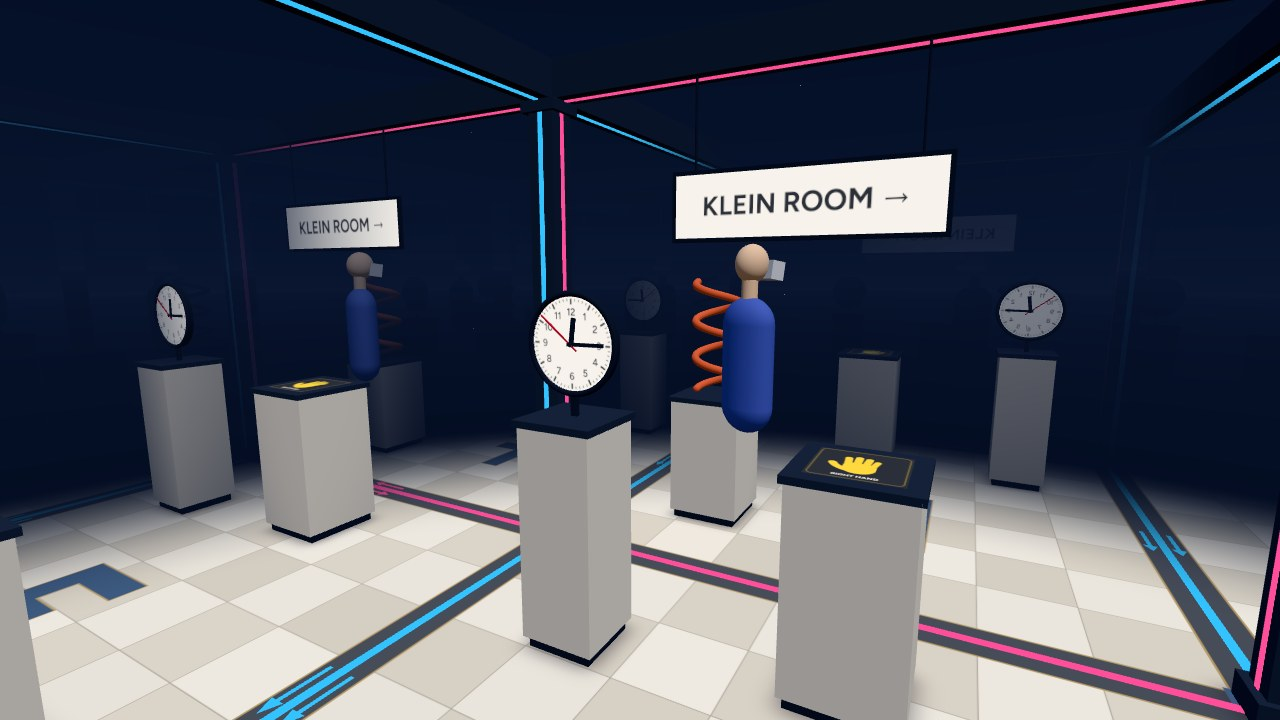
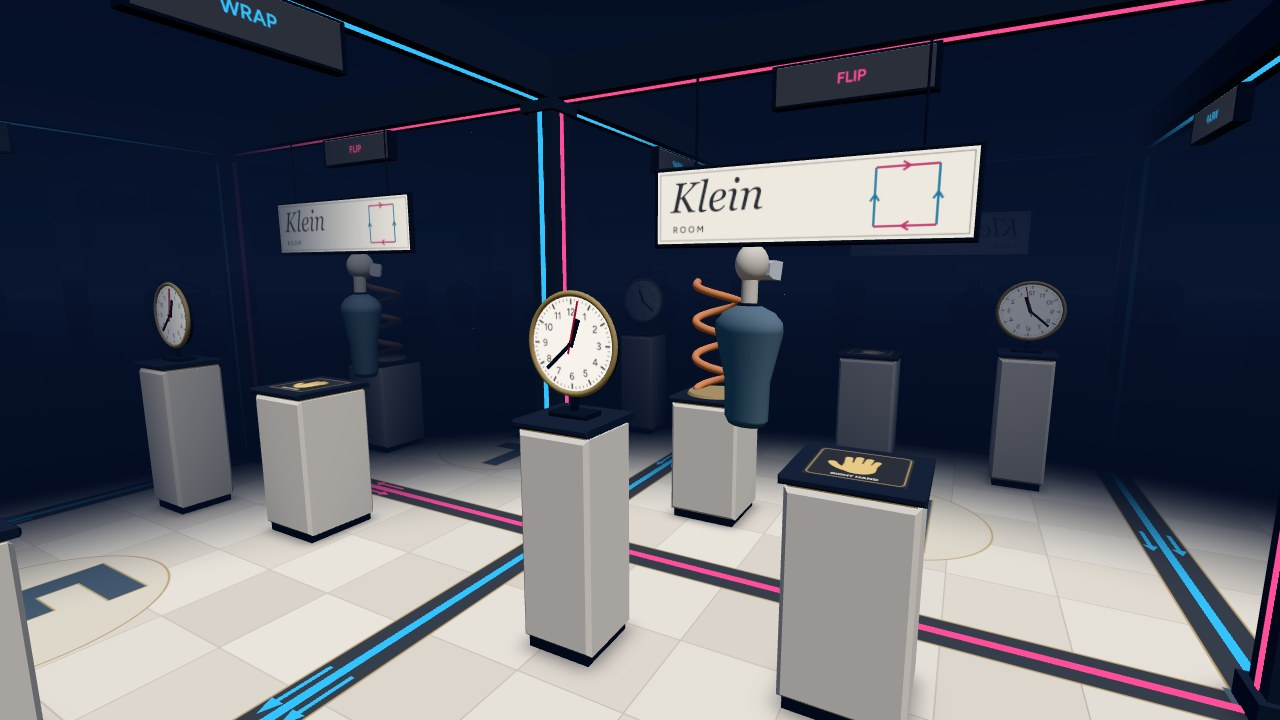
Klein room improvements

diff --git a/src/scenes/klein.js b/src/scenes/klein.js
@@ -13,6 +13,7 @@
 // is now mirror-reversed, and your left hand fits the right-hand print.
 
 import * as THREE from 'three';
+import { mergeGeometries } from 'three/addons/utils/BufferGeometryUtils.js';
 import { SceneBase } from './base.js';
 import { BONES } from '../core/handVisuals.js';
 import { J } from '../core/input.js';
@@ -104,6 +105,7 @@ function mergeColored(parts) {
     }
     if (geo.index) for (let i = 0; i < geo.index.count; i++) index.push(base + geo.index.getX(i));
     else for (let i = 0; i < gp.count; i++) index.push(base + i);
+    geo.dispose();
   }
   const g = new THREE.BufferGeometry();
   g.setAttribute('position', new THREE.Float32BufferAttribute(pos, 3));
@@ -118,6 +120,17 @@ const at = (x, y, z, rx = 0, ry = 0, rz = 0, sx = 1, sy = 1, sz = 1) => new THRE
 
 const CYAN = '#33c3ff', PINK = '#ff4f9a';
 const INK = '#2b2f3a', SLATE = '#3a3f4d', STONE = '#eee8de';
+const BRASS = '#bda477', COPPER = '#e79970';
+
+/** A single bevel catches the light without subdividing the flat faces. */
+function bevelBox(w, h, d, bevel = 0.012) {
+  const x = w / 2 - bevel, y = h / 2 - bevel;
+  const shape = new THREE.Shape().moveTo(-x, -y).lineTo(x, -y).lineTo(x, y).lineTo(-x, y).closePath();
+  return new THREE.ExtrudeGeometry(shape, {
+    depth: d - 2 * bevel, bevelEnabled: true, bevelSegments: 1,
+    steps: 1, bevelSize: bevel, bevelThickness: bevel, curveSegments: 1,
+  }).translate(0, 0, -d / 2 + bevel);
+}
 // the frame: a square pillar at each corner, and a lintel along the top of each wall
 const PILLAR = 0.16, LINTEL = 0.2, CAP = 0.22, CAP_H = 0.06, BASE_H = 0.1;
 const JAMB_TOP = H - LINTEL - CAP_H; // where the pillar's capital starts
@@ -127,6 +140,7 @@ const PLATE = { x: 0.2, z: -1.0, size: 0.44, top: 0.9 };
 const HELIX = { x: 0.9, z: 0.8, size: 0.44, top: 0.8 };
 const CLOCK_C = new THREE.Vector3(CLOCK.x, 1.3, CLOCK.z); // centre of the clock, inside its body
 const SIGN_POS = new THREE.Vector3(-0.2, 1.9, -D / 2 + 0.05); // facing +z, into the room
+const SIGN_W = 1.4, SIGN_H = 0.35, PORTAL_Y = H - LINTEL - 0.1;
 
 /**
  * Everything in the room that doesn't move and is lit, in room coordinates,
@@ -143,31 +157,38 @@ function roomGeometry() {
   add(box(CAP, CAP_H, CAP), SLATE, at(W / 2, JAMB_TOP + CAP_H / 2, D / 2));
   add(box(PILLAR, LINTEL, D), SLATE, at(W / 2, H - LINTEL / 2, 0));
   add(box(W, LINTEL, PILLAR), SLATE, at(0, H - LINTEL / 2, D / 2));
-  // gallery plinths: a dark recessed foot, and a top slab that overhangs a little
+  // Chamfered stone, a recessed foot and a thin brass reveal under each cap.
   for (const { x, z, size, top } of [CLOCK, PLATE, HELIX]) {
     add(box(size - 0.04, 0.05, size - 0.04), INK, at(x, 0.025, z));
-    add(box(size, top - 0.08, size), STONE, at(x, 0.05 + (top - 0.08) / 2, z));
-    add(box(size + 0.03, 0.03, size + 0.03), SLATE, at(x, top - 0.015, z));
+    add(bevelBox(size, top - 0.095, size, 0.018), STONE, at(x, 0.05 + (top - 0.095) / 2, z));
+    add(box(size - 0.025, 0.012, size - 0.025), BRASS, at(x, top - 0.038, z));
+    add(bevelBox(size + 0.03, 0.032, size + 0.03, 0.008), SLATE, at(x, top - 0.016, z));
   }
+  // The spiral is mounted on a shallow disc, rather than hovering over its plinth.
+  add(new THREE.CylinderGeometry(0.18, 0.19, 0.018, 32), BRASS, at(HELIX.x, HELIX.top + 0.009, HELIX.z));
   // a helix, which is chiral: this one twists to the right
   const helixPts = Array.from({ length: 60 }, (_, k) => {
     const t = k / 59, a = t * Math.PI * 6;
     return new THREE.Vector3(Math.cos(a) * 0.14, HELIX.top + 0.02 + t * 0.7, -Math.sin(a) * 0.14);
   });
-  add(new THREE.TubeGeometry(new THREE.CatmullRomCurve3(helixPts), 160, 0.025, 8, false), '#e76f51', at(HELIX.x, 0, HELIX.z));
+  add(new THREE.TubeGeometry(new THREE.CatmullRomCurve3(helixPts), 80, 0.025, 8, false), COPPER, at(HELIX.x, 0, HELIX.z));
   // the tube is open-ended: round off both ends
-  for (const p of [helixPts[0], helixPts[59]]) add(new THREE.SphereGeometry(0.025, 12, 8), '#e76f51', at(HELIX.x + p.x, p.y, HELIX.z + p.z));
+  for (const p of [helixPts[0], helixPts[59]]) add(new THREE.SphereGeometry(0.025, 8, 6), COPPER, at(HELIX.x + p.x, p.y, HELIX.z + p.z));
   // the clock: a body facing +z with a bezel round the face (see clockFaceTexture()), on a stand
   // thinner than the body (0.03), so where it runs up behind the face it stays inside it
   add(new THREE.CylinderGeometry(0.21, 0.21, 0.03, 48).rotateX(Math.PI / 2), INK, at(CLOCK_C.x, CLOCK_C.y, CLOCK_C.z));
-  add(new THREE.TorusGeometry(0.205, 0.013, 8, 48), INK, at(CLOCK_C.x, CLOCK_C.y, CLOCK_C.z + 0.015));
+  add(new THREE.TorusGeometry(0.205, 0.013, 6, 48), BRASS, at(CLOCK_C.x, CLOCK_C.y, CLOCK_C.z + 0.015));
   add(box(0.03, 0.3, 0.02), INK, at(CLOCK_C.x, CLOCK.top + 0.08, CLOCK_C.z));
+  add(bevelBox(0.19, 0.022, 0.12, 0.006), INK, at(CLOCK.x, CLOCK.top + 0.011, CLOCK.z));
   // the pin the hands turn on (see update()), from the face out past the second hand
   add(new THREE.CylinderGeometry(0.008, 0.008, 0.02, 12).rotateX(Math.PI / 2), INK, at(CLOCK_C.x, CLOCK_C.y, CLOCK_C.z + 0.025));
   // a board behind the sign, so from behind it isn't a bare one-sided plane, hung from the lintel
-  add(box(1.24, 0.34, 0.02), INK, at(SIGN_POS.x, SIGN_POS.y, SIGN_POS.z - 0.011));
-  const rod = H - LINTEL - (SIGN_POS.y + 0.17);
-  for (const dx of [-0.5, 0.5]) add(new THREE.CylinderGeometry(0.006, 0.006, rod, 6), INK, at(SIGN_POS.x + dx, SIGN_POS.y + 0.17 + rod / 2, SIGN_POS.z - 0.011));
+  add(bevelBox(SIGN_W + 0.04, SIGN_H + 0.04, 0.032, 0.008), INK, at(SIGN_POS.x, SIGN_POS.y, SIGN_POS.z - 0.017));
+  const signTop = SIGN_POS.y + (SIGN_H + 0.04) / 2;
+  const rod = H - LINTEL - signTop;
+  for (const dx of [-0.5, 0.5]) add(new THREE.CylinderGeometry(0.006, 0.006, rod, 6), INK, at(SIGN_POS.x + dx, signTop + rod / 2, SIGN_POS.z - 0.017));
+  add(box(0.06, 0.18, 0.68), INK, at(W / 2, PORTAL_Y, 0));
+  add(box(0.68, 0.18, 0.06), INK, at(0, PORTAL_Y, D / 2));
   return mergeColored(parts);
 }
 
@@ -234,23 +255,23 @@ function canvasTexture(width, height, draw, { text = false, anisotropy = 4 } = {
  * shadows are painted in.
  */
 function floorTexture() {
-  const S = 2048, px = S / W; // W = D
+  const S = 1024, px = S / W; // W = D; baked detail needs no extra geometry or lights
   const X = (x) => (x + W / 2) * px, Z = (z) => (z + D / 2) * px;
   return canvasTexture(S, S, (g) => {
-    g.fillStyle = '#474c59';
+    g.fillStyle = '#373e4b';
     g.fillRect(0, 0, S, S);
-    // 7 × 7 tiles, with a slightly different shade each
-    const N_T = 7, t0 = -(W - CAP) / 2, T = -2 * t0 / N_T;
+    // Larger, quieter limestone tiles leave the coloured boundaries easy to read.
+    const N_T = 6, t0 = -(W - CAP) / 2, T = -2 * t0 / N_T;
     let seed = 11;
     const rand = () => (seed = (seed * 16807) % 2147483647) / 2147483647;
     for (let a = 0; a < N_T; a++) for (let b = 0; b < N_T; b++) {
-      const [r, gr, bl] = (a + b) % 2 ? [236, 231, 222] : [216, 209, 197];
+      const [r, gr, bl] = (a + b) % 2 ? [231, 226, 217] : [221, 215, 205];
       const k = 1 + (rand() - 0.5) * 0.035;
       g.fillStyle = `rgb(${Math.round(r * k)}, ${Math.round(gr * k)}, ${Math.round(bl * k)})`;
       g.fillRect(X(t0 + a * T), Z(t0 + b * T), T * px, T * px);
     }
-    g.strokeStyle = 'rgba(70, 60, 50, 0.28)';
-    g.lineWidth = 3;
+    g.strokeStyle = 'rgba(70, 60, 50, 0.18)';
+    g.lineWidth = 1.5;
     g.beginPath();
     for (let k = 1; k < N_T; k++) {
       const p = t0 + k * T;
@@ -259,17 +280,22 @@ function floorTexture() {
     }
     g.stroke();
     // a brass line round the tiles
-    g.strokeStyle = '#b39862';
-    g.lineWidth = 6;
+    g.strokeStyle = BRASS;
+    g.lineWidth = 3;
     g.strokeRect(X(t0), Z(t0), N_T * T * px, N_T * T * px);
-    // the F, inlaid, reading the right way from the starting spot
+    // An inlaid orientation medallion: F has an unmistakable mirror image.
+    g.beginPath();
+    g.arc(X(-0.13), Z(0.35), 0.6 * px, 0, Math.PI * 2);
+    g.fillStyle = '#ded8cb';
+    g.fill();
+    g.stroke();
     const F = [[-0.38, -0.1], [0.12, -0.1], [0.12, 0.06], [-0.22, 0.06], [-0.22, 0.22], [0, 0.22], [0, 0.38], [-0.22, 0.38], [-0.22, 0.8], [-0.38, 0.8]];
     g.beginPath();
     for (const [x, z] of F) g.lineTo(X(x), Z(z));
     g.closePath();
-    g.fillStyle = '#3d5a80';
+    g.fillStyle = '#435a70';
     g.fill();
-    g.lineWidth = 5;
+    g.lineWidth = 2.5;
     g.stroke(); // brass, as above
     // soft shadows: the shape is drawn off the canvas, so only its blurred shadow lands on it
     const shadow = (x, z, size, blur, alpha) => {
@@ -290,12 +316,12 @@ function handPrintTexture() {
   return canvasTexture(512, 512, (g) => {
     g.fillStyle = INK;
     g.fillRect(0, 0, 512, 512);
-    g.strokeStyle = 'rgba(255, 217, 61, 0.4)';
+    g.strokeStyle = BRASS;
     g.lineWidth = 6;
     g.beginPath();
     g.roundRect(16, 16, 480, 480, 36);
     g.stroke();
-    g.fillStyle = g.strokeStyle = '#ffd93d';
+    g.fillStyle = g.strokeStyle = '#e8c986';
     g.lineCap = 'round';
     g.beginPath();
     g.roundRect(172, 222, 172, 180, [46, 54, 84, 84]);
@@ -320,16 +346,95 @@ function handPrintTexture() {
   }, { text: true });
 }
 
-function signTexture() {
-  return canvasTexture(1024, 256, (g) => {
-    g.fillStyle = '#f7f3ec';
-    g.fillRect(0, 0, 1024, 256);
+// All static signs share one atlas and the same pair of instanced draw calls.
+const LABEL_TILES = {
+  title: [0, 0, 1024, 256],
+  wrap: [0, 256, 512, 128], flip: [512, 256, 512, 128],
+};
+
+function labelTexture() {
+  return canvasTexture(1024, 512, (g) => {
     g.fillStyle = INK;
-    g.font = `700 108px ${FONTS.sans}`;
-    g.textAlign = 'center';
+    g.fillRect(0, 0, 1024, 512);
+    // Enamel nameplate, with the room's edge identifications beside its name.
+    g.fillStyle = '#ede9df';
+    g.fillRect(0, 0, 1024, 256);
+    g.strokeStyle = INK;
+    g.lineWidth = 2;
+    g.strokeRect(12, 12, 1000, 232);
+    g.textAlign = 'left';
     g.textBaseline = 'middle';
-    g.fillText('KLEIN ROOM →', 512, 134);
+    g.fillStyle = INK;
+    g.font = '148px Georgia, serif';
+    g.fillText('Klein', 52, 105);
+    g.font = `600 32px ${FONTS.sans}`;
+    g.fillText('R O O M', 62, 208);
+    // Cyan sides have matching arrows; pink sides have opposite arrows.
+    const edge = (x1, y1, x2, y2, color) => {
+      const dx = (x2 - x1) / 176, dy = (y2 - y1) / 176;
+      const mx = (x1 + x2) / 2, my = (y1 + y2) / 2;
+      g.strokeStyle = color;
+      g.lineWidth = 7;
+      g.beginPath();
+      g.moveTo(x1, y1); g.lineTo(x2, y2);
+      g.moveTo(mx - dx * 12 - dy * 13, my - dy * 12 + dx * 13);
+      g.lineTo(mx + dx * 8, my + dy * 8);
+      g.lineTo(mx - dx * 12 + dy * 13, my - dy * 12 - dx * 13);
+      g.stroke();
+    };
+    edge(748, 216, 748, 40, '#147da6');
+    edge(924, 216, 924, 40, '#147da6');
+    edge(748, 40, 924, 40, '#c63573');
+    edge(924, 216, 748, 216, '#c63573');
+    g.textAlign = 'center';
+    g.font = `600 48px ${FONTS.sans}`;
+    for (const [tile, title, color] of [['wrap', 'WRAP', CYAN], ['flip', 'FLIP', PINK]]) {
+      const [x, y, w, h] = LABEL_TILES[tile];
+      g.fillStyle = color;
+      g.fillText(title, x + w / 2, y + h / 2);
+    }
   }, { text: true });
+}
+
+function labelGeometry() {
+  const parts = [];
+  const panel = (tile, w, h, matrix, mirror = false) => {
+    const [x, y, tw, th] = LABEL_TILES[tile];
+    const geo = new THREE.PlaneGeometry(w, h).applyMatrix4(matrix);
+    const uv = geo.attributes.uv;
+    // Half-pixel inset keeps the base-level samples within their atlas tile.
+    for (let i = 0; i < uv.count; i++) uv.setXY(i,
+      (x + 0.5 + (mirror ? 1 - uv.getX(i) : uv.getX(i)) * (tw - 1)) / 1024,
+      1 - (y + 0.5 + (1 - uv.getY(i)) * (th - 1)) / 512);
+    parts.push(geo);
+  };
+  panel('title', SIGN_W, SIGN_H, at(SIGN_POS.x, SIGN_POS.y, SIGN_POS.z));
+  for (const s of [-1, 1]) {
+    panel('wrap', 0.64, 0.16, at(W / 2 + s * 0.031, PORTAL_Y, 0, 0, s * Math.PI / 2));
+    // The outward pink face belongs to the reflected neighbour. Its lettering
+    // must use that room's handedness, so both exits read correctly from inside.
+    panel('flip', 0.64, 0.16, at(0, PORTAL_Y, D / 2 + s * 0.031, 0, s === 1 ? 0 : Math.PI), s === 1);
+  }
+  const merged = mergeGeometries(parts);
+  for (const geo of parts) geo.dispose();
+  return merged;
+}
+
+/** A shoulder-and-waist silhouette with a collar, using fewer faces than a capsule. */
+function torsoGeometry() {
+  const profile = [[0, -0.33], [0.105, -0.33], [0.13, -0.29], [0.135, -0.08],
+    [0.2, 0.19], [0.195, 0.24], [0.15, 0.29], [0.065, 0.33], [0, 0.33]];
+  return mergeColored([
+    { geo: new THREE.LatheGeometry(profile.map(([r, y]) => new THREE.Vector2(r, y)), 16), color: '#6e8494' },
+    { geo: new THREE.TorusGeometry(0.062, 0.012, 4, 16), color: INK, matrix: at(0, 0.33, 0, Math.PI / 2) },
+  ]);
+}
+
+function visorGeometry() {
+  return mergeColored([
+    { geo: bevelBox(0.19, 0.1, 0.09, 0.018), color: '#d6d9e0' },
+    { geo: bevelBox(0.163, 0.066, 0.014, 0.006), color: '#273b50', matrix: at(0, 0, -0.048) },
+  ]);
 }
 
 /** The clock's face, with numerals, which read backwards in a mirrored copy. */
@@ -448,7 +553,7 @@ export class KleinScene extends SceneBase {
       inst(roomGeometry(), new THREE.MeshLambertMaterial({ vertexColors: true }), COPIES),
       inst(new THREE.PlaneGeometry(W, D).rotateX(-Math.PI / 2), new THREE.MeshBasicMaterial({ map: floorTexture(), toneMapped: false }), COPIES),
       inst(glowGeometry(), new THREE.MeshBasicMaterial({ vertexColors: true, toneMapped: false }), COPIES),
-      inst(new THREE.PlaneGeometry(1.2, 0.3).translate(SIGN_POS.x, SIGN_POS.y, SIGN_POS.z), new THREE.MeshBasicMaterial({ map: signTexture(), toneMapped: false }), COPIES),
+      inst(labelGeometry(), new THREE.MeshBasicMaterial({ map: labelTexture(), toneMapped: false }), COPIES),
       inst(new THREE.CircleGeometry(0.2, 48).translate(CLOCK_C.x, CLOCK_C.y, CLOCK_C.z + 0.017), new THREE.MeshBasicMaterial({ map: clockFaceTexture(), toneMapped: false }), COPIES),
       inst(new THREE.PlaneGeometry(0.34, 0.34).rotateX(-Math.PI / 2).translate(this.platePos.x, this.platePos.y, this.platePos.z), this.plateMat, COPIES),
     ];
@@ -457,11 +562,11 @@ export class KleinScene extends SceneBase {
     this.secondHand = inst(new THREE.BoxGeometry(0.006, 0.22, 0.004).translate(0, 0.07, 0), new THREE.MeshLambertMaterial({ color: '#e63946' }), COPIES);
 
     // copies of you: head, headset, neck, body and hands
-    const skin = new THREE.MeshLambertMaterial({ color: '#f0cdb0' });
-    this.head = inst(new THREE.SphereGeometry(1, 24, 16), skin, COPIES);
-    this.visor = inst(new THREE.BoxGeometry(0.19, 0.1, 0.09), new THREE.MeshLambertMaterial({ color: '#d6d9e0' }), COPIES);
+    const skin = new THREE.MeshLambertMaterial({ color: '#e3ddd1' });
+    this.head = inst(new THREE.SphereGeometry(1, 16, 12), skin, COPIES);
+    this.visor = inst(visorGeometry(), new THREE.MeshLambertMaterial({ vertexColors: true }), COPIES);
     this.neck = inst(new THREE.CylinderGeometry(1, 1, 1, 12, 1, true).translate(0, 0.5, 0), skin, COPIES);
-    this.torso = inst(new THREE.CapsuleGeometry(0.15, 0.45, 8, 20), new THREE.MeshLambertMaterial({ color: '#5b6fc4' }), COPIES);
+    this.torso = inst(torsoGeometry(), new THREE.MeshLambertMaterial({ vertexColors: true }), COPIES);
     this.joints = inst(new THREE.SphereGeometry(1, 10, 8), skin, COPIES * 50);
     this.bones = inst(new THREE.CylinderGeometry(1, 1, 1, 8).translate(0, 0.5, 0), skin, COPIES * BONES.length * 2);
     this.desktopView = { position: new THREE.Vector3(0, 1.6, 0.6), target: new THREE.Vector3(0, 1.4, -1) };
